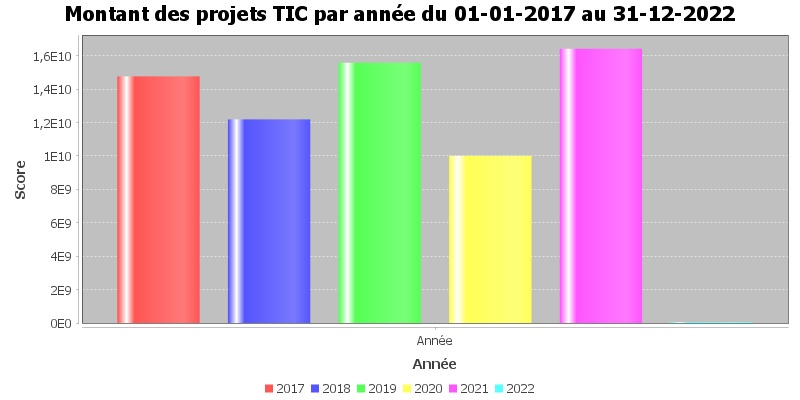
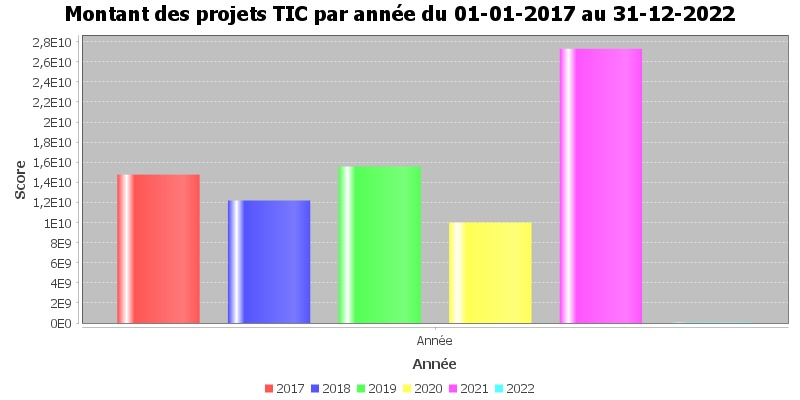
Amélioration du code de chargement des projets et de génération des statistiques globales du Dashboard

diff --git a/pridesoft-localsrv/src/main/java/cm/antic/pridesoft/localsrv/service/ProjetTicService.java b/pridesoft-localsrv/src/main/java/cm/antic/pridesoft/localsrv/service/ProjetTicService.java
@@ -17,6 +17,7 @@ import org.springframework.transaction.annotation.Transactional;
 
 import cm.antic.pridesoft.datamodel.local.MaitreOuvrage;
 import cm.antic.pridesoft.datamodel.local.ProjetTic;
+import cm.antic.pridesoft.datatransfer.enums.TypeProjet;
 import cm.antic.pridesoft.datatransfer.local.NombreMontantDTO;
 import cm.antic.pridesoft.datatransfer.local.ProjetAnnuelDTO;
 import cm.antic.pridesoft.datatransfer.local.ProjetCategorieDTO;
@@ -208,7 +209,7 @@ public class ProjetTicService {
 		
 		
 		List<ProjetTic> listeMarches = listeProjetsTic.stream()
-				.filter(projetTic -> projetTic.getMontant().compareTo(BigDecimal.valueOf(5000000L)) > 0)
+				.filter(projetTic -> TypeProjet.MARCHE.getLibelle().equals(projetTic.getType()))
 				.collect(Collectors.toList());
 		
 		Long montantTotalMaches = listeMarches.stream()
@@ -217,7 +218,7 @@ public class ProjetTicService {
 					.sum() ;
 		
 		List<ProjetTic> listeCNEs = listeProjetsTic.stream()
-				.filter(projetTic -> projetTic.getMontant().compareTo(BigDecimal.valueOf(5000000L)) < 0)
+				.filter(projetTic -> TypeProjet.BONDECOMMANDE.getLibelle().equals(projetTic.getType()))
 				.collect(Collectors.toList()) ;
 		
 		Long montantTotalCNEs = listeCNEs.stream()
@@ -228,12 +229,12 @@ public class ProjetTicService {
 		Integer nombreTotal = listeProjetsTic.size() == 0 ? 1 : listeProjetsTic.size() ;
 		Long montantTotal = montantProjetsTic == 0L ? 1L : montantProjetsTic ;
 		
-		liste.add( new NombreMontantDTO("Nombre et Montant des projets TIC au niveau national", 
+		liste.add( new NombreMontantDTO("Nombre et Montant des tous les projets TIC au niveau national", 
 				listeProjetsTic.size(), montantProjetsTic, 
 				Double.valueOf(listeProjetsTic.size()*1.0/nombreTotal).floatValue(), 
 				Double.valueOf(montantProjetsTic*1.0/montantTotal).floatValue()))  ;
 		
-		liste.add( new NombreMontantDTO("Nombre et Montant des projets TIC au niveau central", 
+		liste.add( new NombreMontantDTO("Nombre et Montant des projets TIC au niveau de l'Administration centrale", 
 				listeProjetsTicSC.size(), montantProjetsTicSC, 
 				Double.valueOf(listeProjetsTicSC.size()*1.0/nombreTotal).floatValue(), 
 				Double.valueOf(montantProjetsTicSC*1.0/montantTotal).floatValue()))  ;

diff --git a/pridesoft-localsrv/src/main/java/cm/antic/pridesoft/localsrv/service/ProjetService.java b/pridesoft-localsrv/src/main/java/cm/antic/pridesoft/localsrv/service/ProjetService.java
@@ -14,6 +14,7 @@ import org.springframework.transaction.annotation.Transactional;
 import cm.antic.pridesoft.datamodel.exceptions.LocalEntityNotFoundException;
 import cm.antic.pridesoft.datamodel.local.Projet;
 import cm.antic.pridesoft.datamodel.local.ProjetTic;
+import cm.antic.pridesoft.datatransfer.enums.TypeProjet;
 import cm.antic.pridesoft.localsrv.repository.ProjetRepository;
 import cm.antic.pridesoft.localsrv.repository.ProjetTicRepository;
 import lombok.extern.log4j.Log4j2;
@@ -39,20 +40,19 @@ public class ProjetService {
 	public Projet creerEtValider (Projet projet)  {
 		projet.setValide(1) ;
 		Projet projetCree = projetRepository.save(projet) ;
-		ProjetTic projetTic = ProjetTic.builder()
-								.codeProjet(projet.getCodeProjet())
-							    .libelle(projet.getLibelle())
-							    .dateSignature(projet.getDateSignature())
-							    .montant(projet.getMontant())
-							    .idRegion(String.valueOf(projet.getIdRegion()))
-							    .libelleRegion(projet.getLibelleRegion())
-							    .idMaitreOuvrage(String.valueOf(projet.getIdMaitreOuvrage()))
-							    .libelleMaitreOuvrage(projet.getLibelleMaitreOuvrage())
-							    //.idCategorie(String.valueOf(projet.getIdCategorie()))
-							    //.libelleCategorie(projet.getLibelleCategorie())
-							    //.idSecteurActivite(String.valueOf(projet.getIdSecteurActivite()))
-							    //.libelleSecteurActivite(projet.getLibelleSecteurActivite())
-							    .build() ;
+		ProjetTic projetTic = projetTicRepository.findByCodeProjet(projet.getCodeProjet())
+					.orElse(new ProjetTic()) ;
+		
+		projetTic.setCodeProjet(projet.getCodeProjet()) ;
+		projetTic.setLibelle(projet.getLibelle()) ;
+		projetTic.setType(TypeProjet.MARCHE.getLibelle()) ;
+		projetTic.setDateSignature(projet.getDateSignature()) ;
+		projetTic.setMontant(projet.getMontant()) ;
+		projetTic.setIdRegion(String.valueOf(projet.getIdRegion())) ;
+		projetTic.setLibelleRegion(projet.getLibelleRegion()) ;
+		projetTic.setIdMaitreOuvrage(String.valueOf(projet.getIdMaitreOuvrage())) ;
+		projetTic.setLibelleMaitreOuvrage(projet.getLibelleMaitreOuvrage()) ;
+		
 		projetTicRepository.save(projetTic) ;
 		return projetCree ;
 	}

diff --git a/pridesoft-localsrv/src/main/java/cm/antic/pridesoft/localsrv/service/CneService.java b/pridesoft-localsrv/src/main/java/cm/antic/pridesoft/localsrv/service/CneService.java
@@ -12,6 +12,7 @@ import org.springframework.stereotype.Service;
 import cm.antic.pridesoft.datamodel.exceptions.LocalEntityNotFoundException;
 import cm.antic.pridesoft.datamodel.local.Cne;
 import cm.antic.pridesoft.datamodel.local.ProjetTic;
+import cm.antic.pridesoft.datatransfer.enums.TypeProjet;
 import cm.antic.pridesoft.localsrv.repository.CneRepository;
 import cm.antic.pridesoft.localsrv.repository.ProjetTicRepository;
 
@@ -35,20 +36,19 @@ public class CneService {
 	
 	public Cne creerEtValider (Cne cne) {
 		Cne cneCree = cneRepository.save(cne) ;
-		ProjetTic projetTic = ProjetTic.builder()
-				.codeProjet(cne.getCodeProjet())
-			    .libelle(cne.getLibelle())
-			    .dateSignature(cne.getDateSignature())
-			    .montant(cne.getMontant())
-			    .idRegion(cne.getIdRegion())
-			    .libelleRegion(cne.getLibelleRegion())
-			    .idMaitreOuvrage(cne.getIdMaitreOuvrage())
-			    .libelleMaitreOuvrage(cne.getLibelleMaitreOuvrage())
-			    .idCategorie(cne.getIdCategorie())
-			    .libelleCategorie(cne.getLibelleCategorie())
-			    .idSecteurActivite(cne.getIdSecteurActivite())
-			    .libelleSecteurActivite(cne.getLibelleSecteurActivite())
-			    .build() ;
+		ProjetTic projetTic = projetTicRepository.findByCodeProjet(cne.getCodeProjet()) 
+					.orElse(new ProjetTic()) ;
+		
+		projetTic.setCodeProjet(cne.getCodeProjet()) ;
+		projetTic.setLibelle(cne.getLibelle()) ;
+		projetTic.setType(TypeProjet.BONDECOMMANDE.getLibelle()) ;
+		projetTic.setDateSignature(cne.getDateSignature()) ;
+		projetTic.setMontant(cne.getMontant()) ;
+		projetTic.setIdRegion(cne.getIdRegion()) ;
+		projetTic.setLibelleRegion(cne.getLibelleRegion()) ;
+		projetTic.setIdMaitreOuvrage(cne.getIdMaitreOuvrage()) ;
+		projetTic.setLibelleMaitreOuvrage(cne.getLibelleMaitreOuvrage()) ;
+
 		projetTicRepository.save(projetTic) ;
 		
 		return cneCree ;
